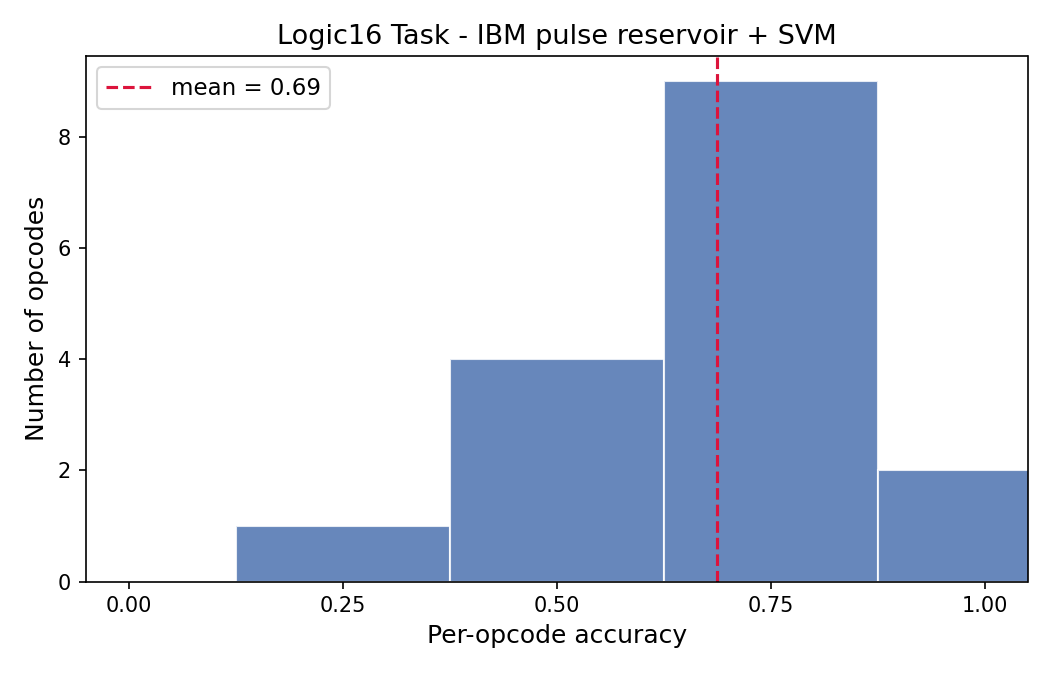
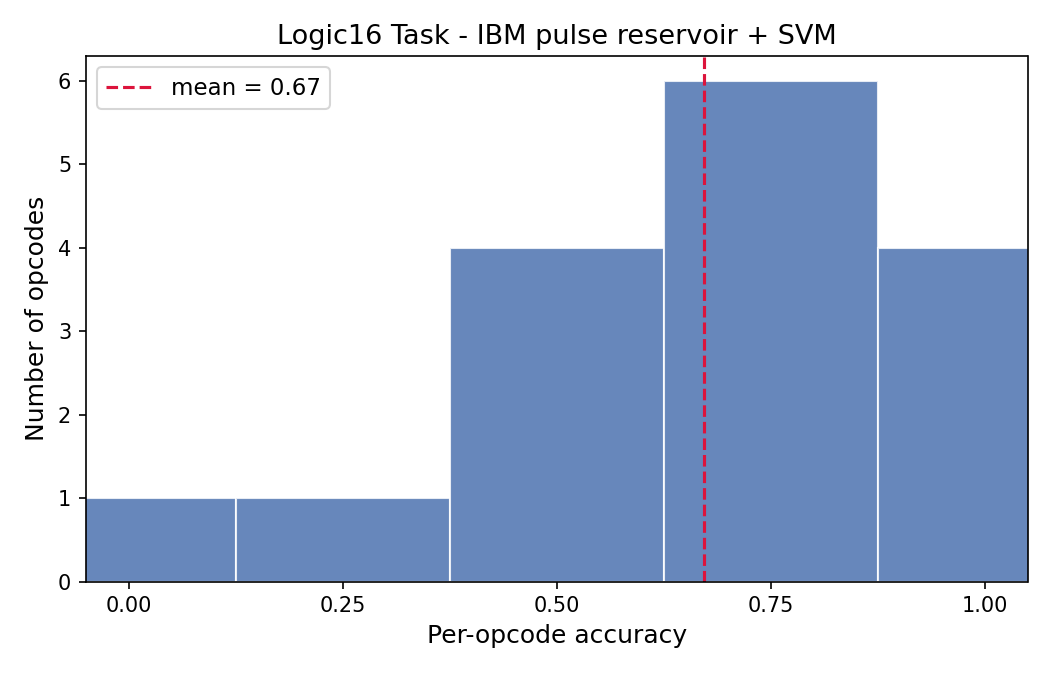
updates

diff --git a/src/computingMicrobiome/benchmarks/k_opcode_logic16_bm.py b/src/computingMicrobiome/benchmarks/k_opcode_logic16_bm.py
@@ -109,6 +109,7 @@ def build_tagged_stream(
     d_period: int,
     repeats: int = 1,
     order: Optional[Sequence[str]] = None,
+    post_cue_ticks: int = 0,
 ) -> np.ndarray:
     """Build the tagged input stream for a single episode.
 
@@ -120,6 +121,7 @@ def build_tagged_stream(
         repeats: Number of times to repeat the write packets.
         order: Optional sequence of field names among {"op0", "op1", "op2", "op3", "a", "b"}.
             If None, uses ["op0", "op1", "op2", "op3", "a", "b"].
+        post_cue_ticks: Number of extra non-cue ticks appended after the cue.
 
     Returns:
         np.ndarray: Stream of shape (L, 10).
@@ -130,6 +132,9 @@ def build_tagged_stream(
 
     if order is None:
         order = ["op0", "op1", "op2", "op3", "a", "b"]
+    post_cue_ticks = int(post_cue_ticks)
+    if post_cue_ticks < 0:
+        raise ValueError("post_cue_ticks must be >= 0")
 
     field_to_tag_and_value = {
         "op0": (TAG_OP0, int(op_bits_msb_first[3])),
@@ -155,13 +160,17 @@ def build_tagged_stream(
     cue = np.zeros((1, N_CHANNELS), dtype=np.int8)
     cue[0, CUE] = 1
 
-    stream = np.vstack([np.vstack(write_packets), distractor, cue])
+    # Optional post-cue ticks: no tags/values, no cue.
+    post_cue = np.zeros((post_cue_ticks, N_CHANNELS), dtype=np.int8)
+
+    stream = np.vstack([np.vstack(write_packets), distractor, cue, post_cue])
 
     # Set DIST=1 by default on all non-cue ticks unless during write packets you prefer otherwise.
     # Here we keep DIST=1 during write packets too (often improves separability),
     # but it is harmless because tags + values still exist.
-    stream[:-1, DIST] = 1
-    stream[-1, DIST] = 0
+    stream[:, DIST] = 1
+    cue_idx = len(write_packets) + int(d_period)
+    stream[cue_idx, DIST] = 0
 
     return stream
 
@@ -179,6 +188,7 @@ def run_episode_record_tagged(
     input_locations: np.ndarray,
     repeats: int = 1,
     order: Optional[Sequence[str]] = None,
+    post_cue_ticks: int = 0,
     reg: Optional[Readout] = None,
     collect_states: bool = True,
     x0_mode: str = "zeros",
@@ -202,6 +212,7 @@ def run_episode_record_tagged(
         input_locations: Injection locations array.
         repeats: Number of times to repeat the write packets.
         order: Optional packet field ordering.
+        post_cue_ticks: Number of extra non-cue ticks appended after cue.
         reg: Optional trained readout model for predictions.
         collect_states: Whether to store the full state history.
         x0_mode: Initial state mode ("zeros" or "random").
@@ -218,6 +229,7 @@ def run_episode_record_tagged(
         d_period=d_period,
         repeats=repeats,
         order=order,
+        post_cue_ticks=post_cue_ticks,
     )
 
     reservoir = make_reservoir(
@@ -247,6 +259,8 @@ def run_episode_record_tagged(
     elif feature_mode == "output_window":
         if output_window < 1:
             raise ValueError("output_window must be >= 1")
+        if output_window > ep["X_tick"].shape[0]:
+            raise ValueError("output_window cannot exceed number of episode ticks")
         X_episode = ep["X_tick"][-output_window:]  # shape (W, itr*width)
     else:
         raise ValueError("feature_mode must be 'cue_tick' or 'output_window'")
@@ -275,6 +289,7 @@ def build_dataset_programmed_logic(
     repeats: int = 1,
     feature_mode: str = "cue_tick",
     output_window: int = 2,
+    post_cue_ticks: int = 0,
     seed: int = 0,
     order: Optional[Sequence[str]] = None,
     reservoir_kind: str = "eca",
@@ -292,6 +307,7 @@ def build_dataset_programmed_logic(
         repeats: Number of times to repeat write packets.
         feature_mode: "cue_tick" or "output_window".
         output_window: Window length when feature_mode is "output_window".
+        post_cue_ticks: Number of extra non-cue ticks appended after cue.
         seed: RNG seed for dataset generation.
         order: Optional packet field ordering.
 
@@ -325,6 +341,7 @@ def build_dataset_programmed_logic(
                     input_locations=input_locations,
                     repeats=repeats,
                     order=order,
+                    post_cue_ticks=post_cue_ticks,
                     reg=None,
                     collect_states=False,
                     x0_mode="zeros",
@@ -355,6 +372,7 @@ def train_programmed_logic_readout(
     repeats: int = 1,
     feature_mode: str = "cue_tick",
     output_window: int = 2,
+    post_cue_ticks: int = 0,
     seed_train: int = 0,
     order: Optional[Sequence[str]] = None,
     readout_kind: str = "svm",
@@ -374,6 +392,7 @@ def train_programmed_logic_readout(
         repeats: Number of times to repeat write packets.
         feature_mode: "cue_tick" or "output_window".
         output_window: Window length when feature_mode is "output_window".
+        post_cue_ticks: Number of extra non-cue ticks appended after cue.
         seed_train: RNG seed for training data.
         order: Optional packet field ordering.
         readout_kind: "svm" or "evo".
@@ -392,6 +411,7 @@ def train_programmed_logic_readout(
         repeats=repeats,
         feature_mode=feature_mode,
         output_window=output_window,
+        post_cue_ticks=post_cue_ticks,
         seed=seed_train,
         order=order,
         reservoir_kind=reservoir_kind,

diff --git a/example_tasks/task_7_learn_logic16_with_ibm.py b/example_tasks/task_7_learn_logic16_with_ibm.py
@@ -5,8 +5,8 @@ Task behavior and reporting are matched to task_5_learn_logic16_rule_110.py:
 - same timing and prediction settings (RECURRENCE/ITR/D_PERIOD/feature mode),
 - same output plots (opcode-accuracy histogram and opcode/operand heatmap).
 
-Reservoir differs by using IBM pulse injection with the same IBM species/toxin
-components used in task_4_learn_8_bit_with_ibm_pulse_matched.py.
+Reservoir differs by using IBM pulse injection with a tuned IBM species/toxin
+configuration chosen from the Task-7 visualization sweep.
 """
 
 from __future__ import annotations
@@ -43,35 +43,36 @@ OPS = {
     15: "TRUE",
 }
 
-# Task-5 timing/task parameters (kept identical).
+# Task-5 timing/task parameters with explicit post-cue readout tail.
 RULE_NUMBER = 110
 BOUNDARY = "periodic"
 RECURRENCE = 8
 ITR = 8
 D_PERIOD = 200
 REPEATS = 1
-FEATURE_MODE = "cue_tick"
-OUTPUT_WINDOW = 2
+POST_CUE_TICKS = 3
+FEATURE_MODE = "output_window"
+OUTPUT_WINDOW = 3
 SEED_TRAIN = 0
 N_CHANNELS = 10
 
 # Delay in simulation steps from input writes through cue tick.
-# logic16 stream length L = 6*REPEATS + D_PERIOD + 1.
-TRACE_DEPTH = (6 * REPEATS + D_PERIOD + 1) * (ITR + 1) + 8
+# logic16 stream length L = 6*REPEATS + D_PERIOD + 1 + POST_CUE_TICKS.
+TRACE_DEPTH = (6 * REPEATS + D_PERIOD + 1 + POST_CUE_TICKS) * (ITR + 1) + 8
 
 OUT_DIR = pathlib.Path(__file__).resolve().parent / "task_7_artifacts"
 OUT_DIR.mkdir(exist_ok=True)
 
-# IBM components and pulse behavior (matched to task-4 pulse-matched setup).
+# IBM components and pulse behavior (tuned Task-7 setting).
 IBM_DIFF_NUMER = 1
-IBM_DILUTION_P = 0.5
+IBM_DILUTION_P = 0.1
 IBM_INJECT_SCALE = 2.0
 PULSE_RADIUS = 0
-PULSE_TOXIN_CONC = 180
-PULSE_POPULAR_CONC = 200
+PULSE_TOXIN_CONC = 100
+PULSE_POPULAR_CONC = 100
 
 IBM_CFG = make_ibm_config_from_species(
-    species_indices=[0, 1, 20, 17, 21, 40, 41],
+    species_indices=[0, 1, 20, 21, 22, 40, 41, 47],
     height=16,
     width_grid=16,
     overrides={
@@ -88,9 +89,10 @@ IBM_CFG = make_ibm_config_from_species(
         "pulse_popular_conc": PULSE_POPULAR_CONC,
         "basal_init": False,
         "left_source_enabled": True,
-        "left_source_species": [-1] * 4 + [0, 1, 2, 3, 4, 5, 6] + [-1] * 5,
+         "left_source_species": [-1] * 3 + [0, 1, 2, 3, 4, 5,6, 7] + [-1] * 5,
         "left_source_colonize_empty": True,
         "left_source_outcompete_margin": 1,
+        "toxin_tolerance": [10, 5, 5, 25, 25, 100, 100, 100]
     },
 )
 IBM_CFG["channel_to_resource"] = make_channel_to_resource_from_config(
@@ -119,6 +121,7 @@ def main() -> None:
         repeats=REPEATS,
         feature_mode=FEATURE_MODE,
         output_window=OUTPUT_WINDOW,
+        post_cue_ticks=POST_CUE_TICKS,
         seed=SEED_TRAIN,
         readout_kind="svm",
         reservoir_kind="ibm_pulse",

diff --git a/src/computingMicrobiome/models/k_opcode_logic16.py b/src/computingMicrobiome/models/k_opcode_logic16.py
@@ -27,8 +27,9 @@ class KOpcodeLogic16(BaseEstimator, ClassifierMixin):
         itr: Number of iterations between ticks.
         d_period: Delay between input and output window.
         repeats: Number of episode repeats per sample.
-        feature_mode: Feature extraction mode ("cue_tick" or "window").
+        feature_mode: Feature extraction mode ("cue_tick" or "output_window").
         output_window: Output window length when using windowed features.
+        post_cue_ticks: Number of extra non-cue ticks appended after cue.
         seed: RNG seed for dataset generation and sampling.
         readout_kind: "svm" or "evo".
         readout_config: Optional configuration for the readout.
@@ -45,6 +46,7 @@ class KOpcodeLogic16(BaseEstimator, ClassifierMixin):
         repeats: int = 1,
         feature_mode: str = "cue_tick",
         output_window: int = 2,
+        post_cue_ticks: int = 0,
         seed: int = 0,
         readout_kind: str = "svm",
         readout_config: dict | None = None,
@@ -60,6 +62,7 @@ class KOpcodeLogic16(BaseEstimator, ClassifierMixin):
         self.repeats = int(repeats)
         self.feature_mode = str(feature_mode)
         self.output_window = int(output_window)
+        self.post_cue_ticks = int(post_cue_ticks)
         self.seed = int(seed)
         self.readout_kind = str(readout_kind)
         self.readout_config = readout_config
@@ -89,6 +92,7 @@ class KOpcodeLogic16(BaseEstimator, ClassifierMixin):
             repeats=self.repeats,
             feature_mode=self.feature_mode,
             output_window=self.output_window,
+            post_cue_ticks=self.post_cue_ticks,
             seed_train=self.seed,
             order=None,
             readout_kind=self.readout_kind,
@@ -142,6 +146,7 @@ class KOpcodeLogic16(BaseEstimator, ClassifierMixin):
                 input_locations=self.input_locations_,
                 repeats=self.repeats,
                 order=None,
+                post_cue_ticks=self.post_cue_ticks,
                 reg=None,
                 collect_states=False,
                 x0_mode="zeros",
